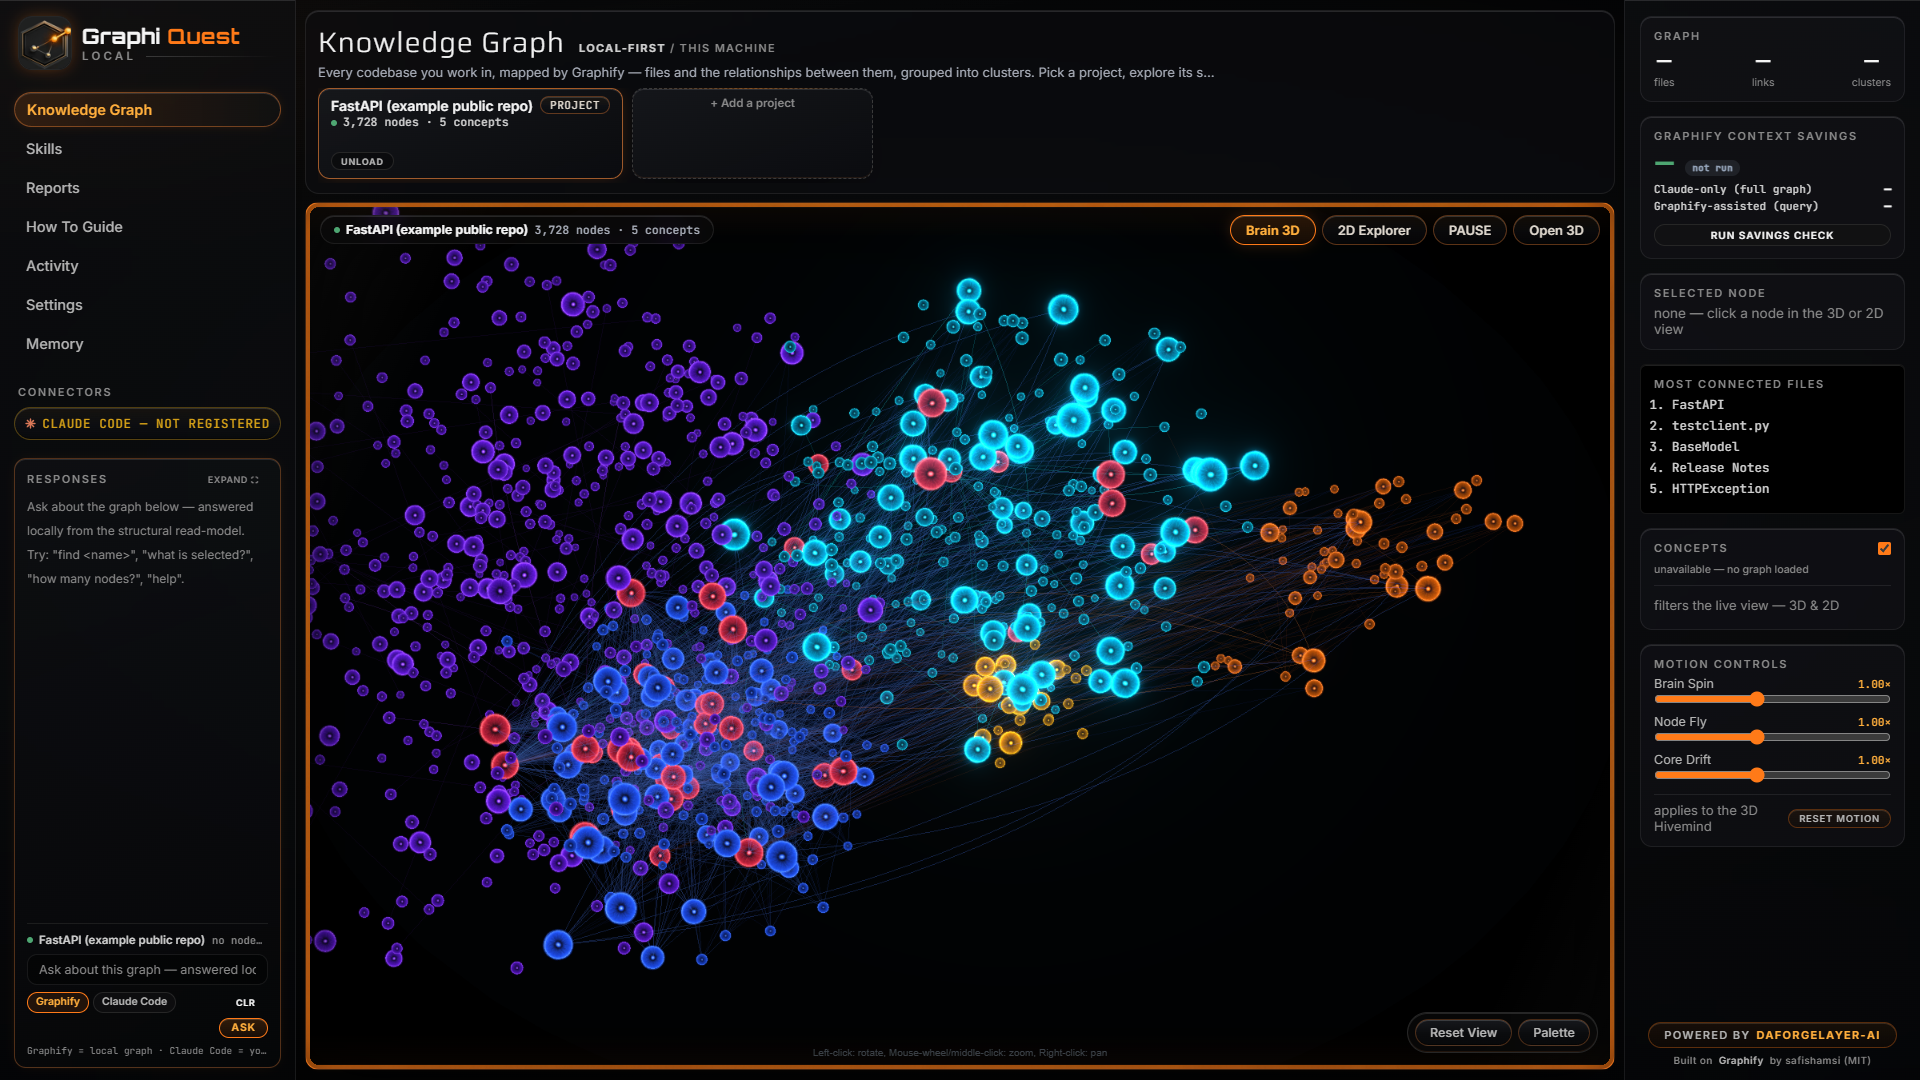
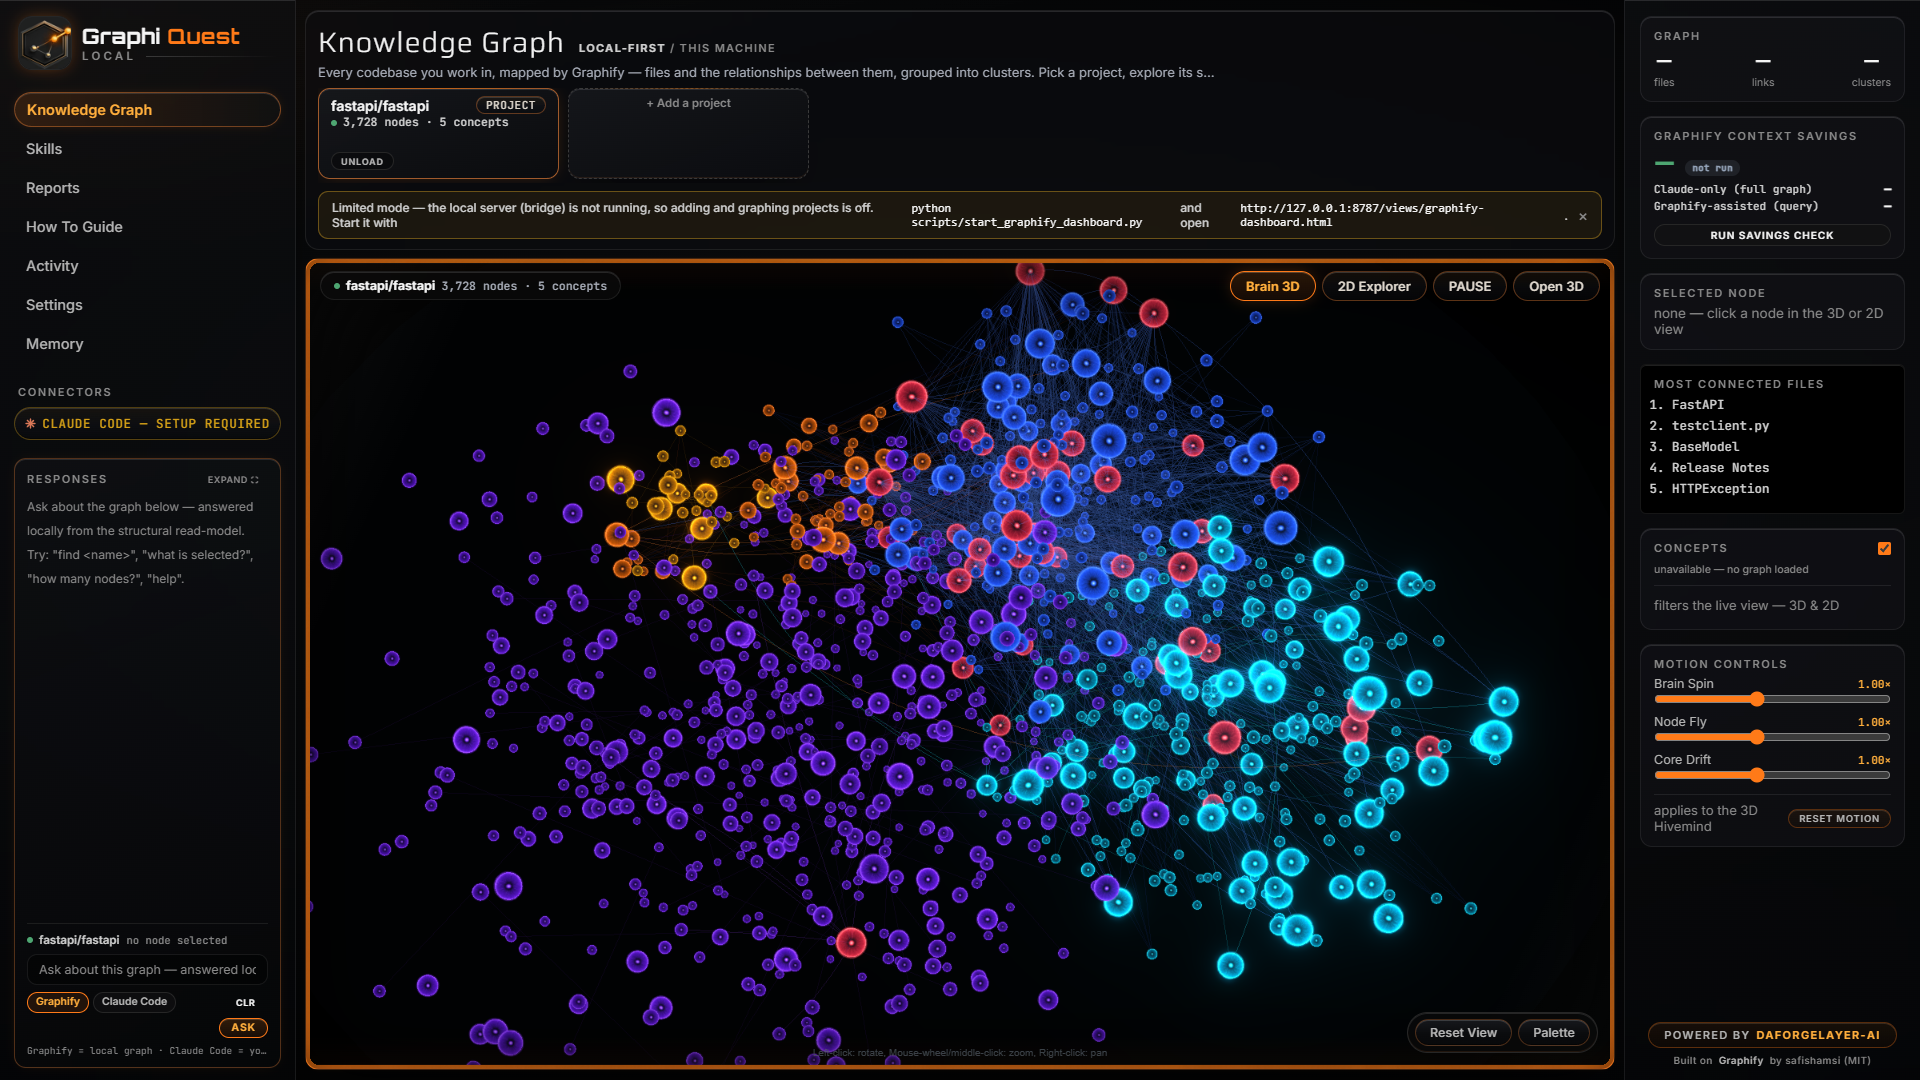
Adaptive Hivemind layout: brain-like at any repo size / taxonomy shape
The 3D Hivemind was over-tuned to one graph shape (fixed lobe slots assigned by
label order + a fixed camera framed to one bounding box), so generic/public repos
rendered as scattered islands with the dominant lobe shoved to a corner and half the
frame empty. Now, when no local custom taxonomy override is present, the layout is
ADAPTIVE: lobes are packed into a coherent brain-shaped mass sized to THIS graph
(greedy center-seeking pack, biggest lobe at the core, lobes meet into a continuous
mass), and the camera lookAt/distance + containment shell are computed from the actual
post-layout bounding box (distance calibrated so the brain fills ~65-80% of the frame
at any size). A window.__brainLayoutDebug() QA hook reports active regions / displayed
nodes / bbox / camera distance / packing mode.

Small repo -> a smaller but coherent brain; medium -> dense and centered; large ->
rich and detailed. A local custom-taxonomy view (if a maintainer drops the gitignored
override) keeps its hand-tuned layout unchanged.

Re-captured the two hero shots from an EXAMPLE PUBLIC repo (fastapi/fastapi) with the
fixed layout: a dense centered overview, and a zoom into the buried central hub
(FastAPI, degree 674) lighting its 231 connected pathways.

Verified: deterministic (byte-identical re-renders), edge cases 1..10 regions +
giant/equal/giant-ring/hub-dominated all render centered and crash-free, both 1920x1080
and 1366x768, console clean. Built on Graphify by safishamsi (MIT).

diff --git a/scripts/graphify_brain3d.py b/scripts/graphify_brain3d.py
@@ -125,10 +125,71 @@ for n in nodes:
     by_region.setdefault(rr, []).append(n)
     node_region[n["id"]] = rr
 
+# ---- G5S ADAPTIVE BRAIN LAYOUT (de-tuned from the DFL monorepo slot geometry) ----
+# Problem: REGION_SLOTS are fixed absolute lobe centers hand-fit to the DFL monorepo's
+# region balance, and they are assigned by LABEL order, not size. A generic/public repo
+# with fewer or lopsided regions fills only the first few slots -> the dominant lobe is
+# shoved to a corner and the rest scatter into islands with big empty gaps (and the
+# camera, also DFL-fit, frames the wrong box). Fix: when there is NO local custom
+# taxonomy override (i.e. the published/generic path), PACK the lobes into a brain-shaped
+# mass sized to THIS graph and FRAME the camera from the resulting bbox. The DFL local
+# custom view (a local taxonomy override is present) keeps the approved slots + camera.
+ADAPTIVE = not _CUSTOM_REGIONS
+LOBE_K = 15.0                     # lobe spatial radius = LOBE_K * sqrt(member count)
+MEET = 0.55                       # tangent center dist = (rA+rB)*MEET -> ~45% overlap = fused mass (few-lobe graphs stay fused after the x-stretch instead of splitting into a dumbbell)
+XSTRETCH, YSQUASH = 1.3, 1.0      # gentle side-profile widen (brain silhouette without pulling side-by-side lobes apart)
+lobe_r = {r: LOBE_K * math.sqrt(len(m)) for r, m in by_region.items()}
+
+if ADAPTIVE:
+    # Greedy center-seeking pack of heterogeneous lobe disks: biggest lobe at the core,
+    # each later lobe placed at the most-central tangent position that does not over-
+    # overlap an already-placed lobe. Deterministic (sort by size then id; fixed 4deg
+    # angular search), robust for ANY region count (1..N) and any balance -> a compact
+    # coherent brain whether the repo is small/sparse or large/dense.
+    order = sorted(by_region.keys(), key=lambda r: (-len(by_region[r]), r))
+    placed = {}
+    for r in order:
+        ri = lobe_r[r]
+        if not placed:
+            placed[r] = (0.0, 0.0)
+            continue
+        best = None
+        for pj, (px, py) in list(placed.items()):
+            d_target = (ri + lobe_r[pj]) * MEET
+            for a in range(0, 360, 4):
+                ang = math.radians(a)
+                x, y = px + d_target * math.cos(ang), py + d_target * math.sin(ang)
+                ok = True
+                for pk, (kx, ky) in placed.items():
+                    if pk == pj:
+                        continue
+                    if math.hypot(x - kx, y - ky) < (ri + lobe_r[pk]) * MEET * 0.985:
+                        ok = False
+                        break
+                if ok:
+                    score = math.hypot(x, y)
+                    if best is None or score < best[0] - 1e-6:
+                        best = (score, x, y)
+        placed[r] = (best[1], best[2]) if best else (0.0, 0.0)
+    # member-weighted recenter to origin, then ellipse-stretch + per-lobe hemisphere depth
+    _tw = sum(len(m) for m in by_region.values()) or 1
+    _gx = sum(placed[r][0] * len(by_region[r]) for r in placed) / _tw
+    _gy = sum(placed[r][1] * len(by_region[r]) for r in placed) / _tw
+    region_center = {}
+    for r, (x, y) in placed.items():
+        cz = min(150.0, max(55.0, 0.42 * lobe_r[r]))   # depth ~ lobe size (hemisphere amplitude)
+        region_center[r] = (round((x - _gx) * XSTRETCH, 1), round((y - _gy) * YSQUASH, 1), round(cz, 1))
+    LAYOUT_MODE = "adaptive-pack"
+else:
+    region_center = {r: (REGIONS[r][0], REGIONS[r][1], REGIONS[r][2]) for r in by_region}
+    LAYOUT_MODE = "custom-fixed"
+
 out_nodes, counts = [], {}
 for r, members in by_region.items():
-    cx, cy, cz, rim, fam_cell = REGIONS[r]
-    rmax = (16 if len(members) > 250 else 13) * math.sqrt(len(members))  # lobes meet: continuous hero mass
+    _slot = REGIONS[r]
+    rim, fam_cell = _slot[3], _slot[4]
+    cx, cy, cz = region_center[r]                       # packed (adaptive) or hand-tuned slot (custom)
+    rmax = lobe_r[r] if ADAPTIVE else (16 if len(members) > 250 else 13) * math.sqrt(len(members))  # lobes meet: continuous hero mass
     peripheral = r == FALLBACK_REGION
     for i, n in enumerate(members):  # members arrive degree-sorted: low i = hub = hot center
         t = h01(n["id"], "r")
@@ -255,6 +316,51 @@ for _sweep in range(10):
     if _moved == 0:
         break
 print(f"micro-separation: sweeps={_sweep_counts} (scale-aware hub-pair separations: {_hub_moved}; floor 14.0 / hub (sA+sB)*0.45)")
+
+# ---- G5S adaptive camera + shell framing (computed from the FINAL node bbox) ----
+# Same calibration constant for everyone: the approved DFL frame sat at distance 991
+# from a view-plane bounding radius of ~717 -> ratio 1.38. Applying that to THIS graph's
+# bbox makes the brain fill ~65-80% of a 16:9 viewport regardless of repo size. The DFL
+# custom path keeps the exact approved literals (visually identical).
+_xs = [n["x"] for n in out_nodes]; _ys = [n["y"] for n in out_nodes]; _zs = [n["z"] for n in out_nodes]
+BB = dict(minx=min(_xs), maxx=max(_xs), miny=min(_ys), maxy=max(_ys), minz=min(_zs), maxz=max(_zs))
+
+
+def _fmt(v):
+    """Int-clean number formatting so the custom path stays byte-identical to the old literals."""
+    return str(int(v)) if float(v) == int(v) else repr(round(float(v), 1))
+
+
+if ADAPTIVE:
+    _wsum = sum(max(1, n["deg"]) for n in out_nodes) or 1
+    _dcx = sum(n["x"] * max(1, n["deg"]) for n in out_nodes) / _wsum    # degree-weighted centroid (dense hub mass)
+    _dcy = sum(n["y"] * max(1, n["deg"]) for n in out_nodes) / _wsum
+    _dcz = sum(n["z"] * max(1, n["deg"]) for n in out_nodes) / _wsum
+    _bcx = (BB["minx"] + BB["maxx"]) / 2; _bcy = (BB["miny"] + BB["maxy"]) / 2; _bcz = (BB["minz"] + BB["maxz"]) / 2
+    # 50/50 blend with the geometric center: lean toward the dense mass for an
+    # interesting frame, but cap how far a hub-dominated region can pull the frame
+    # off-center (adversarial-grill finding: pure degree-weighting drifted ~7% on a
+    # hub-only graph; the blend halves that and stays robust for pathological balances).
+    LOOK_X = round(0.5 * _bcx + 0.5 * _dcx, 1)
+    LOOK_Y = round(0.5 * _bcy + 0.5 * _dcy, 1)
+    LOOK_Z = round(0.5 * _bcz + 0.5 * _dcz, 1)
+    _hw = (BB["maxx"] - BB["minx"]) / 2; _hh = (BB["maxy"] - BB["miny"]) / 2
+    _Rview = math.hypot(_hw, _hh)
+    CAM_DIST = max(420.0, _Rview * 1.38)
+    _DIR = (0.1413, 0.0404, 0.9891)                       # approved 3/4 view direction (DFL pos-look, normalized)
+    CAM_X = round(LOOK_X + _DIR[0] * CAM_DIST, 1); CAM_Y = round(LOOK_Y + _DIR[1] * CAM_DIST, 1); CAM_Z = round(LOOK_Z + _DIR[2] * CAM_DIST, 1)
+    CAM_FAR = round(max(6000.0, CAM_DIST * 2.2 + _Rview))
+    CAM_MAXD = round(CAM_DIST + _Rview * 2.0)
+    SHELL_SX = round(max(_hw, 80) * 1.18, 1); SHELL_SY = round(max(_hh, 60) * 1.18, 1)
+    SHELL_SZ = round(max(BB["maxz"] - BB["minz"], 180) / 2 * 1.3, 1)
+    SHELL_PX = round((BB["minx"] + BB["maxx"]) / 2, 1); SHELL_PY = round((BB["miny"] + BB["maxy"]) / 2, 1); SHELL_PZ = round((BB["minz"] + BB["maxz"]) / 2, 1)
+else:
+    CAM_X, CAM_Y, CAM_Z = 80, 50, 980                     # exact approved DFL frame (byte-identical)
+    LOOK_X, LOOK_Y, LOOK_Z = -60, 10, 0
+    CAM_DIST = math.hypot(CAM_X - LOOK_X, CAM_Y - LOOK_Y, CAM_Z - LOOK_Z)
+    CAM_FAR, CAM_MAXD = 6000, 4800
+    SHELL_SX, SHELL_SY, SHELL_SZ = 660, 480, 440
+    SHELL_PX, SHELL_PY, SHELL_PZ = -60, 15, 0
 
 links = [dict(source=e["source"], target=e["target"], w=(w := link_tier(e)),
               c=link_rgba(e, w), hc=link_highlight(e),
@@ -504,7 +610,7 @@ window.addEventListener('message', e => {{
 // Hero first-frame: lookAt = dense-mass center of the side-profile oval (x ~-60),
 // camera slightly right/above for 3/4 depth, distance tuned so the brain fills
 // ~65-80% of the viewport (composition pass; not a random close-up).
-G.cameraPosition({{x: 80, y: 50, z: 980}}, {{x: -60, y: 10, z: 0}});
+G.cameraPosition({{x: {_fmt(CAM_X)}, y: {_fmt(CAM_Y)}, z: {_fmt(CAM_Z)}}}, {{x: {_fmt(LOOK_X)}, y: {_fmt(LOOK_Y)}, z: {_fmt(LOOK_Z)}}});
 // G5N.2 H1 fix (workflow-verified): three-render-objects defaults are near=0.1 and
 // far=skyRadius*2.5=125000, which quantize the 24-bit depth buffer to ~0.6 world
 // units at orbit depth -- a depth crossing of two overlapping cores then sits in a
@@ -543,13 +649,22 @@ function flyTo(px, py, pz, lx, ly, lz, minMs, maxMs) {{
   FLY.id = requestAnimationFrame(step);
 }}
 c.addEventListener('start', cancelFly);               // manual grab takes over instantly
-const fixCam = () => {{ cam.near = 5; cam.far = 6000; cam.updateProjectionMatrix(); c.maxDistance = 4800; }};
+const fixCam = () => {{ cam.near = 5; cam.far = {_fmt(CAM_FAR)}; cam.updateProjectionMatrix(); c.maxDistance = {_fmt(CAM_MAXD)}; }};
 fixCam();
 // three-render-objects assigns far=skyRadius*2.5 during ASYNC init AFTER this inline
 // code (probed live: near=5 survived, far reverted to 125000) -- re-assert post-init.
 setTimeout(fixCam, 800); setTimeout(fixCam, 2500);
 window.__brainCam = () => ({{ near: cam.near, far: cam.far, dist: cam.position.distanceTo(c.target) }});  // QA probe
-c.target.set(-60, 10, 0);
+// G5S layout QA hook: active regions / displayed nodes / post-layout bbox / camera
+// distance / chosen packing mode -- lets automated QA assert the brain is framed.
+window.__brainLayoutDebug = () => ({{
+  mode: '{LAYOUT_MODE}', adaptive: {str(ADAPTIVE).lower()},
+  activeRegions: {len(counts)}, displayedNodes: {len(out_nodes)},
+  bbox: {{ x: [{_fmt(BB["minx"])}, {_fmt(BB["maxx"])}], y: [{_fmt(BB["miny"])}, {_fmt(BB["maxy"])}], z: [{_fmt(BB["minz"])}, {_fmt(BB["maxz"])}] }},
+  look: {{ x: {_fmt(LOOK_X)}, y: {_fmt(LOOK_Y)}, z: {_fmt(LOOK_Z)} }},
+  bakedDist: {_fmt(round(CAM_DIST))}, camDist: Math.round(cam.position.distanceTo(c.target))
+}});
+c.target.set({_fmt(LOOK_X)}, {_fmt(LOOK_Y)}, {_fmt(LOOK_Z)});
 
 // ---- premium backdrop + containment shell (G5D premium pass) ----
 // Backdrop: the operator-APPROVED v2 obsidian plate (ignored staging; asset-commit
@@ -563,8 +678,8 @@ import('https://esm.sh/three@0.183.0').then(({{ SphereGeometry, Mesh, MeshBasicM
   const shell = new Mesh(new SphereGeometry(1, 48, 32), new MeshBasicMaterial({{
     color: 0x06090e, transparent: true, opacity: 0.22, side: BackSide, depthWrite: false,
   }}));
-  shell.scale.set(660, 480, 440);             // wraps the side-profile oval (x -632..513, y -412..453)
-  shell.position.set(-60, 15, 0);
+  shell.scale.set({_fmt(SHELL_SX)}, {_fmt(SHELL_SY)}, {_fmt(SHELL_SZ)});   // wraps the (adaptive or DFL-fixed) brain bbox
+  shell.position.set({_fmt(SHELL_PX)}, {_fmt(SHELL_PY)}, {_fmt(SHELL_PZ)});
   shell.renderOrder = -2;
   G.scene().add(shell);
 }});
@@ -755,7 +870,7 @@ const paint = () => {{}};
 function resetView() {{                                // restore the hero first-load frame
   SELECTED = null; refreshSelection(); postSelected();
   G.linkVisibility(G.linkVisibility());
-  flyTo(80, 50, 980, -60, 10, 0, RESET_FLY_MIN_MS, RESET_FLY_MAX_MS);
+  flyTo({_fmt(CAM_X)}, {_fmt(CAM_Y)}, {_fmt(CAM_Z)}, {_fmt(LOOK_X)}, {_fmt(LOOK_Y)}, {_fmt(LOOK_Z)}, RESET_FLY_MIN_MS, RESET_FLY_MAX_MS);
   console.log('[brain] resetView');                    // NOTE: pause state intentionally untouched
 }}
 window.__brainReset = resetView;                       // QA hook (same path as the button)